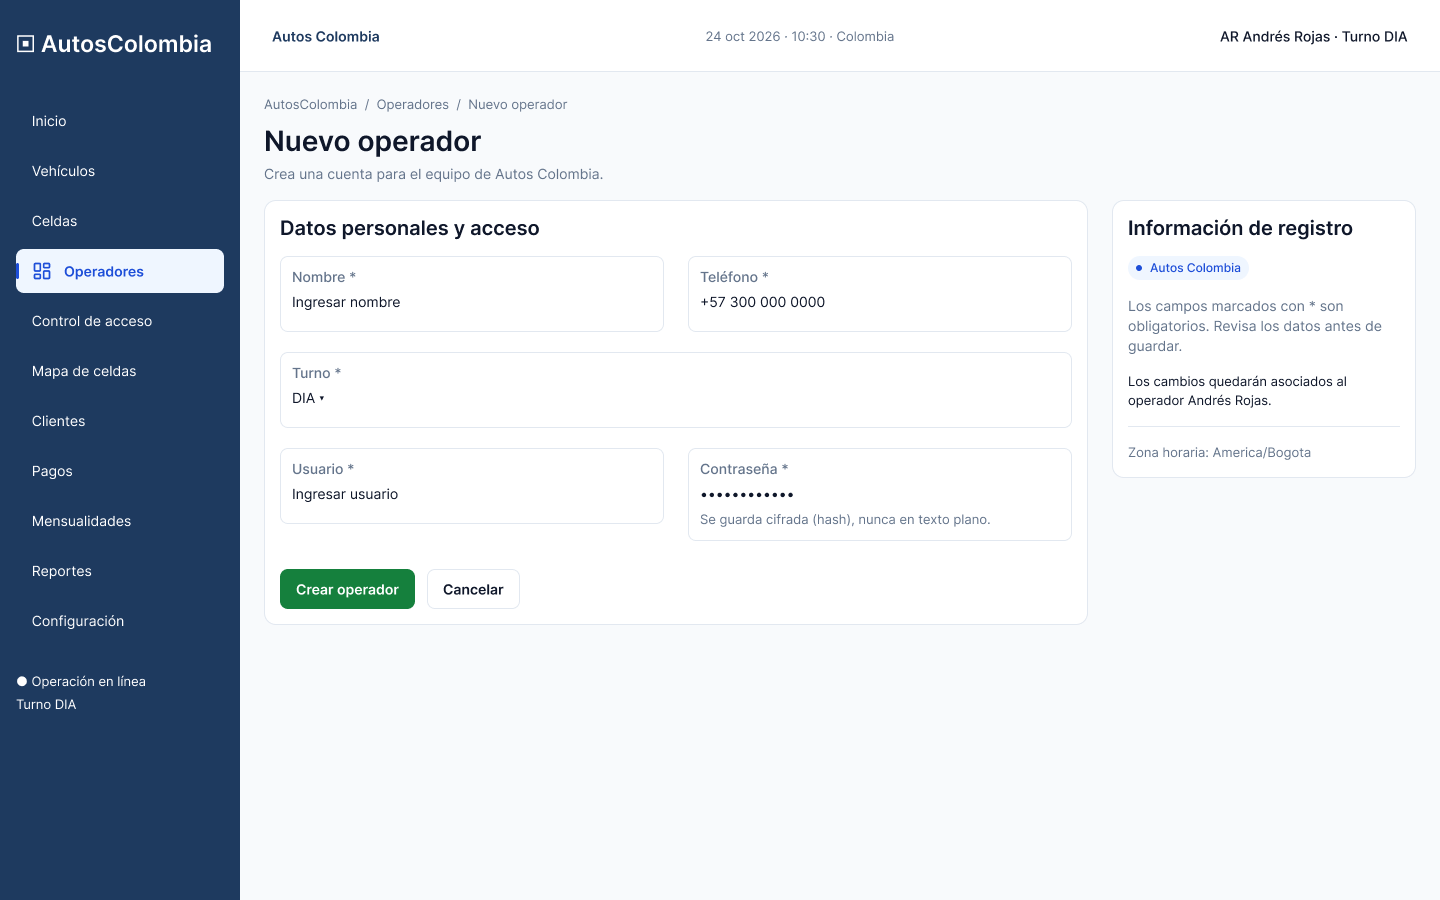
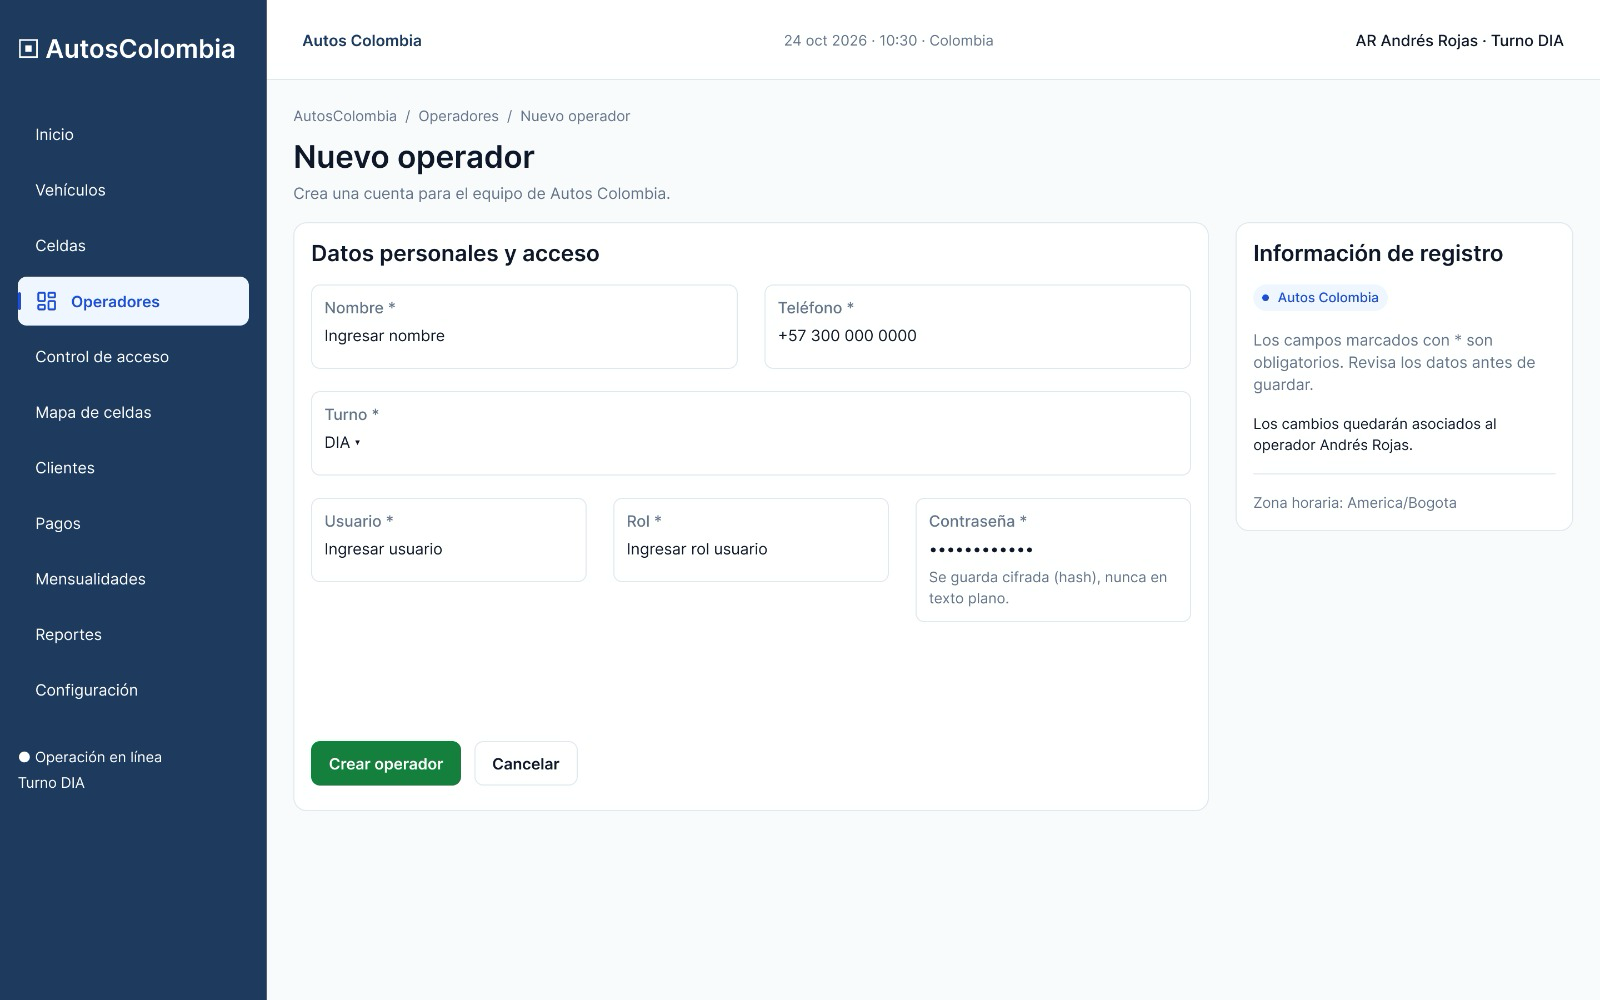
Precisar RF-17, completar historias y secuencias, y corregir evidencia CE-06
- RF-17: tabla de permisos por recurso (lectura vs. escritura), verificada
  contra cada router.
- HU-01, HU-02 y HU-06: agregan el criterio de rol que faltaba.
- Diagramas de secuencia: completan editar y eliminar para operadores
  y celdas (antes solo mostraban el alta).
- Mockup de operadores/nuevo: actualizado con el campo Rol que ya exige
  el backend; se documenta que el de editar sigue pendiente.
- CE-06: el texto de la evidencia citaba por error los mensajes del login
  en vez de los de Celdas (la app y la captura siempre fueron correctas);
  se corrige el texto y se registra como INC-05 en INCIDENCIAS.md.

diff --git a/docs/01-requerimientos.md b/docs/01-requerimientos.md
@@ -35,12 +35,34 @@ entradas y salidas de vehículos, usuarios (operadores y clientes), celdas y pag
 | RF-14 | 2 | Registrar **mensualidades**: el monto lo calcula el servidor según el tipo de vehículo (MOTO $100.000; AUTOMOVIL y CAMIONETA $250.000); el periodo cubre un mes calendario. Consultar la vigencia. La entrada exige mensualidad vigente. | `POST /pagos`, `GET /pagos`, `GET /vehiculos/{id}/mensualidad` · `/gestion/mensualidades` |
 | RF-15 | 2 | **Reporte resumen**: celdas disponibles, celdas totales y clientes registrados. | `GET /reportes/resumen` · `/reportes` |
 | RF-16 | 2 | **Inicio y cierre de sesión** de operadores con usuario y contraseña; token JWT con el rol. Todas las operaciones (salvo el login y `/health`) exigen sesión, y el operador que actúa se toma del token. **Cerrar sesión revoca el token** en el servidor. | `POST /auth/login`, `POST /auth/logout` · `/login` |
-| RF-17 | 2 | **Roles y permisos.** ADMINISTRADOR: crea y gestiona operadores, celdas, clientes y vehículos; **no** registra accesos. OPERADOR: registra entradas, salidas y correcciones de celda, y consulta celdas disponibles; **no** administra usuarios ni celdas. Ambos registran mensualidades y ven el resumen. Un rol sin permiso recibe 403 y la interfaz oculta lo que no le corresponde. | `requiere_roles` en el backend · `rolGuard` y menú por rol en el frontend |
+| RF-17 | 2 | **Roles y permisos.** Ver el detalle de qué puede hacer cada rol, por recurso, justo debajo de esta tabla. | `requiere_roles` en el backend · `rolGuard` y menú por rol en el frontend |
 
 > La numeración RF-10 a RF-17 es la que ya usan el código y los comentarios del
 > repositorio. RF-01 a RF-09 agrupan lo de la iteración 1 y las reglas
 > transversales. Si tu documento de la Actividad 1 numera distinto, conserva la
 > numeración de ese documento y usa la columna *Evidencia* para enlazar.
+
+### RF-17 en detalle: qué puede hacer cada rol
+
+No alcanza con decir "ADMINISTRADOR gestiona, OPERADOR no administra": lectura
+y escritura tienen reglas distintas por recurso, y así está implementado:
+
+| Recurso | ADMINISTRADOR | OPERADOR | Cualquier sesión (sin importar el rol) |
+| --- | --- | --- | --- |
+| Operadores (`/operadores`) | Crear, editar, eliminar, listar y consultar | Sin acceso (403) | — |
+| Celdas (`/celdas`) | Crear, editar, eliminar, listar y consultar | Sin acceso a `/celdas` (403) | `GET /celdas/disponibles` (RF-10) |
+| Clientes (`/clientes`) | Crear, editar, eliminar | Sin escritura (403) | Listar y consultar |
+| Vehículos (`/vehiculos`) | Crear, editar, eliminar | Sin escritura (403) | Listar y consultar |
+| Estancias (`/estancias/entrada`, `/salida`, `/celda`) | Sin acceso (403): no registra accesos | Registrar entrada, salida y corregir celda | Consultar estado por placa (`GET /estancias/vehiculo/{placa}`) |
+| Mensualidades (`/pagos`) | Registrar y consultar | Registrar y consultar | Consultar vigencia (`GET /vehiculos/{id}/mensualidad`) |
+| Reportes (`/reportes/resumen`) | Consultar | Consultar | Consultar |
+
+Reglas transversales: sin sesión, toda operación (salvo `/auth/login` y
+`/health`) responde **401**. Con sesión pero sin el rol que exige el recurso,
+responde **403** «No tienes permisos para esta operación.». El menú del
+frontend (`app.html`) solo muestra las pantallas que el rol de la sesión puede
+usar; intentar una ruta oculta por URL directa también recibe el 403 de la
+API, porque el permiso se exige en el backend, no solo se oculta en pantalla.
 
 ## Requerimientos no funcionales
 

diff --git a/docs/04-diagramas.md b/docs/04-diagramas.md
@@ -279,6 +279,45 @@ sequenceDiagram
     end
 ```
 
+#### 7b. Gestionar operadores — editar y eliminar (RF-07, RF-17)
+
+```mermaid
+sequenceDiagram
+    autonumber
+    participant Administrador
+    participant UI as Operadores (Angular)
+    participant API as PATCH/DELETE /operadores/{id}
+    participant Srv as services.operador
+    participant BD as PostgreSQL
+    Administrador->>UI: Edita datos (o deja la contraseña vacía)
+    UI->>API: PATCH /operadores/{id}
+    API->>API: Exige rol ADMINISTRADOR (solo_administrador)
+    alt Sin rol ADMINISTRADOR
+        API-->>UI: 403 No tienes permisos para esta operación
+    else Rol correcto
+        API->>Srv: update_operador(id, datos)
+        Srv->>BD: UPDATE operador (conserva password_hash si no llega contraseña)
+        alt Usuario repetido
+            BD-->>Srv: Violación de unicidad
+            Srv-->>UI: 409 Ya existe un operador con ese usuario
+        else Correcto
+            BD-->>Srv: operador actualizado
+            Srv-->>UI: 200 operador sin contraseña
+        end
+    end
+    Administrador->>UI: Elimina un operador
+    UI->>API: DELETE /operadores/{id}
+    API->>API: Exige rol ADMINISTRADOR
+    API->>Srv: delete_operador(id)
+    alt Tiene estancias o pagos registrados
+        BD-->>Srv: Violación de clave foránea (RESTRICT)
+        Srv-->>UI: 409 No se puede eliminar: tiene registros relacionados
+    else Sin registros relacionados
+        Srv->>BD: DELETE operador
+        Srv-->>UI: 204 eliminado
+    end
+```
+
 ### 8. Gestionar celdas — crear y consultar disponibles (RF-06, RF-10)
 
 ```mermaid
@@ -304,6 +343,46 @@ sequenceDiagram
     API->>Srv: list_available(offset, limit)
     Srv->>BD: Celdas sin estancia abierta
     BD-->>UI: Página de celdas libres
+```
+
+#### 8b. Gestionar celdas — editar y eliminar (RF-06, RF-17)
+
+```mermaid
+sequenceDiagram
+    autonumber
+    participant Administrador
+    participant UI as Celdas (Angular)
+    participant API as PATCH/DELETE /celdas/{id}
+    participant Srv as services.celda
+    participant BD as PostgreSQL
+    Administrador->>UI: Edita código o tipo
+    UI->>API: PATCH /celdas/{id}
+    API->>API: Exige rol ADMINISTRADOR (solo_administrador)
+    alt Sin rol ADMINISTRADOR
+        API-->>UI: 403 No tienes permisos para esta operación
+    else Rol correcto
+        API->>Srv: update_celda(id, datos)
+        Srv->>Srv: Normaliza el código a mayúsculas
+        Srv->>BD: UPDATE celda
+        alt Código repetido
+            BD-->>Srv: Violación de unicidad
+            Srv-->>UI: 409 Ya existe una celda con ese código
+        else Correcto
+            BD-->>Srv: celda actualizada
+            Srv-->>UI: 200 celda
+        end
+    end
+    Administrador->>UI: Elimina una celda
+    UI->>API: DELETE /celdas/{id}
+    API->>API: Exige rol ADMINISTRADOR
+    API->>Srv: delete_celda(id)
+    alt Tiene estancias relacionadas (libre u ocupada)
+        BD-->>Srv: Violación de clave foránea (RESTRICT)
+        Srv-->>UI: 409 No se puede eliminar: la celda tiene estancias relacionadas
+    else Sin estancias relacionadas
+        Srv->>BD: DELETE celda
+        Srv-->>UI: 204 eliminada
+    end
 ```
 
 ### 9. Registrar mensualidad (RF-14)

diff --git a/docs/03-mockups-figma.md b/docs/03-mockups-figma.md
@@ -36,12 +36,12 @@ con los campos reales de cada formulario.
 | Modelo de cobro | Tarifa por minuto ($100), tolerancia de 5 min, cobro y comprobante de pago al salir | Mensualidad: la entrada exige mensualidad vigente; la salida solo cierra la estancia y libera la celda, sin cobro |
 | Precios | Planes de $280.000 / $140.000 / $180.000 | Tarifa fija por tipo: Moto $100.000; Automóvil y Camioneta $250.000; el servidor calcula el monto |
 | Mensualidades | Planes, celda fija, pago inicial, medio de pago, referencia, saldos | Tipo de vehículo, inicio (opcional) y fin calculado; sin saldos. «Editar o renovar» pasó a **Renovar** |
-| Operadores | Documento, correo, rol, estado, turnos por horario | Nombre, teléfono, usuario, contraseña (opcional al editar) y turno **DIA / NOCHE** |
+| Operadores | Documento, correo, rol, estado, turnos por horario | Nombre, teléfono, usuario, contraseña (opcional al editar), turno **DIA / NOCHE** y rol **ADMINISTRADOR / OPERADOR** (RF-17) |
 | Clientes | Tipo de cliente, tipo de documento, email, dirección, vehículos vinculados, observaciones | Nombre, documento y teléfono |
 | Vehículos | Modelo / línea libre, notas, tipo «Carro» | Modelo = **año 1900–2200**, sin notas, tipos Automóvil / Moto / Camioneta |
 | Celdas | Zona, tarifa, mantenimiento, estado inicial, observaciones; 24 celdas | Código y tipo; 80 celdas (10 MOTO y 70 CARRO) |
 | Reporte | Ocupación, ingresos, operadores, filtros y exportaciones | Resumen: celdas disponibles, celdas totales y clientes registrados |
-| Cabecera y menú lateral | Selector de sede «Parqueadero Centro», «Medellín», rol «Administrador» | «Autos Colombia», turno DIA, sin sede ni rol |
+| Cabecera y menú lateral | Selector de sede «Parqueadero Centro», «Medellín», rol «Administrador» fijo | «Autos Colombia», turno y rol real de la sesión (ADMINISTRADOR / OPERADOR, RF-17); sin selector de sede ni de rol — el rol lo asigna quien crea la cuenta, no se elige al navegar |
 | Estado del vehículo | «En parqueadero» / «Finalizado» | «Dentro» / «Fuera» |
 | Faltaban | Inicio de sesión, corregir celda, rechazo por falta de mensualidad | Marcos 41, 42 y 43 |
 
@@ -60,6 +60,18 @@ como diseño de siguientes iteraciones y no como funcionalidad hecha:
 | 33–35 | Configuración: general, tarifas por minuto y reglas operativas |
 
 El marco **«01 - Inicio (versión anterior)»** es un borrador previo; conviene eliminarlo o dejarlo fuera del PDF.
+
+## Pendiente: campo Rol en los formularios de Operadores
+
+Los marcos 11 y 12 (Nuevo operador / Editar operador) no incluían el campo **Rol**
+(ADMINISTRADOR / OPERADOR) cuando se implementó RF-17 — el mockup quedó
+desactualizado respecto al formulario real, que sí lo exige.
+
+- **Marco 11 (Nuevo operador): corregido.** Ya incluye el campo «Rol *» junto a
+  Usuario, coherente con el resto del formulario.
+- **Marco 12 (Editar operador): pendiente.** Todavía no muestra el campo Rol;
+  hay que agregarlo en Figma (junto a Usuario, igual que en el marco 11) y
+  volver a exportarlo.
 
 ## Diferencias que se mantienen (decisión consciente)
 

diff --git a/docs/02-historias-de-usuario.md b/docs/02-historias-de-usuario.md
@@ -23,6 +23,7 @@ Mockups: ver [03-mockups-figma.md](03-mockups-figma.md).
 - **Cuando** repito una placa existente, **entonces** veo el mensaje «Ya existe un vehículo con esa placa» (409).
 - **Cuando** el modelo está fuera de 1900–2200 o hay campos vacíos, **entonces** no se guarda y se señala el campo.
 - **Cuando** no elijo cliente, **entonces** no se puede guardar (todo vehículo tiene dueño).
+- **Cuando** una cuenta con rol OPERADOR intenta registrar un vehículo, **entonces** la API responde 403 (RF-17): solo ADMINISTRADOR escribe vehículos.
 
 ### HU-02 · Consultar, editar y eliminar vehículos
 **Como** administrador **quiero** mantener la lista de vehículos **para** corregir datos o retirar los que ya no se usan.
@@ -30,6 +31,7 @@ Mockups: ver [03-mockups-figma.md](03-mockups-figma.md).
 - **Cuando** edito un vehículo y guardo, **entonces** se actualiza y se muestra confirmación.
 - **Cuando** elimino un vehículo sin registros relacionados, **entonces** desaparece tras confirmar.
 - **Cuando** el vehículo tiene estancias o pagos, **entonces** no se elimina y se explica el motivo (409).
+- Consultar (listar y ver el detalle) funciona con cualquier sesión; editar y eliminar exigen rol ADMINISTRADOR (403 para OPERADOR, RF-17).
 
 ### HU-03 · Registrar entrada
 **Como** operador **quiero** registrar la entrada de un vehículo a una celda **para** saber qué celda ocupa.
@@ -57,6 +59,7 @@ Mockups: ver [03-mockups-figma.md](03-mockups-figma.md).
 - **Cuando** repito un código, **entonces** veo «Ya existe una celda con ese código» (409).
 - **Cuando** elimino una celda con estancias registradas, **entonces** no se elimina (409).
 - Código y tipo vacíos se rechazan (422).
+- **Cuando** una cuenta con rol OPERADOR intenta crear, listar, editar o eliminar celdas, **entonces** la API responde 403 (RF-17): solo consulta `GET /celdas/disponibles`, no `/celdas`.
 
 ### HU-07 · Gestionar operadores
 **Como** administrador **quiero** registrar operadores con usuario, contraseña, turno y rol **para** que puedan iniciar sesión con los permisos que les corresponden.

diff --git a/entrega-ingenieria-software/evidencias/INCIDENCIAS.md b/entrega-ingenieria-software/evidencias/INCIDENCIAS.md
@@ -1,6 +1,7 @@
 # Incidencias del plan de pruebas PP-02
 
-Estado al 15/11/2026: **las 4 incidencias están cerradas**; los 30 casos quedaron aprobados en la reejecución.
+Estado al 21/11/2026: **las 4 incidencias de aplicación están cerradas**; además se corrigió una
+incidencia documental (INC-05) sobre la evidencia de CE-06.
 
 | Id | Descripción (primera ejecución, commit 0cfb344) | Casos | Solución | Verificación |
 | --- | --- | --- | --- | --- |
@@ -8,6 +9,7 @@ Estado al 15/11/2026: **las 4 incidencias están cerradas**; los 30 casos quedar
 | INC-02 | Operadores y celdas no exigían sesión. | PE-01 | Todas las rutas de negocio exigen sesión (401) | PE-01 aprobado |
 | INC-03 | El cierre de sesión no revocaba el token. | US-05, US-06 | `POST /auth/logout` guarda el `jti` en `token_revocado`; el frontend lo llama al cerrar sesión | US-05 y US-06 aprobados (el token reutilizado responde 401) |
 | INC-04 | El formulario de entrada listaba las celdas ocupadas. | PE-05 | El selector usa `/celdas/disponibles` | PE-05 aprobado |
+| INC-05 | **Documental, no de la aplicación.** El registro de CE-06 citaba los mensajes de validación del formulario de *login* («El usuario es obligatorio.», «La contraseña es obligatoria.») y un error de selector (`#codigo`), en vez de los mensajes reales del formulario de *Celdas*. La captura `CE-06_interfaz.png` siempre mostró el formulario correcto (Código y Tipo con «Este campo es obligatorio y no puede estar vacío.»); el caso se aprobó sin cotejar el texto contra la imagen. | CE-06 | Se corrigió el texto de `CE-06.txt` y de `_resultados.json` para que describa lo que realmente muestra la captura. | CE-06 sigue Aprobado; la aplicación nunca falló, solo el texto de la evidencia estaba mal transcrito |
 
 Resultado de la reejecución: **30 aprobados, 0 fallidos**. Los archivos `ID.txt` de esta carpeta son la evidencia de la reejecución
 (la de la primera ejecución se sobrescribió; el Excel conserva en cada caso la nota de lo que había fallado). Credenciales y tokens ocultos.
